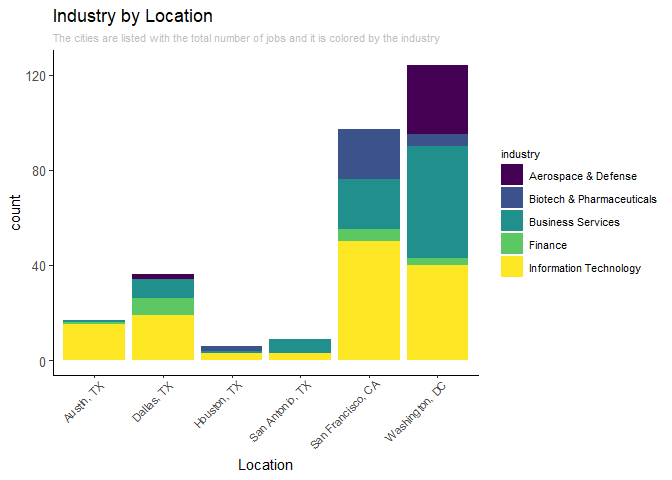
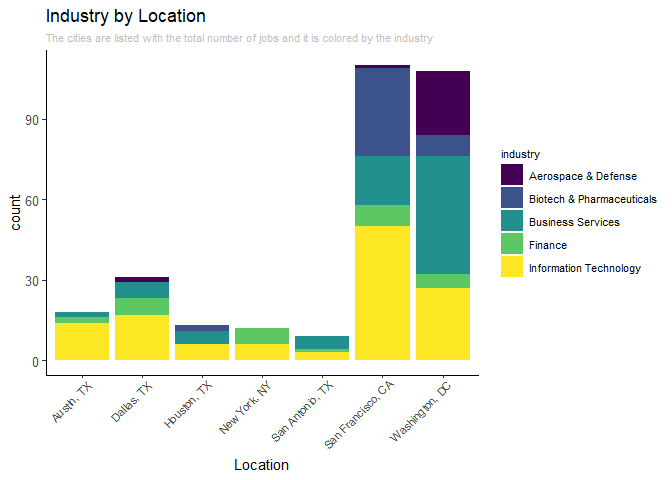
updated job categories for job cateogry analysis

diff --git a/EDA/industry_analysis.md b/EDA/industry_analysis.md
@@ -8,7 +8,7 @@ against the location data to see if which jobs are in each location.
 
 <details>
 
-<summary>Click to expand\!</summary> \# Load
+<summary>Click to expand</summary> \# Load
     Data
 
 ``` r
@@ -65,7 +65,7 @@ Also take out the NAs
 ``` r
 ds_filter <- ds_jobs %>%
   filter(!is.na(job_category)) %>%
-  filter(job_category == "Data Analyst" | job_category == "Data Engineer" | job_category == "Data Scientist" | job_category == "Machine Learning" | job_category == "Consultant")
+  filter(job_category == "Data Analyst" | job_category == "Data Engineer" | job_category == "Data Scientist" | job_category == "Machine Learning" | job_category == "Statistics" | job_category == "Other Analyst")
 ```
 
 </details>
@@ -99,14 +99,14 @@ are the job categories that dominate. Thus, if a data science student is
 looking for a job, then based on this data, the student should look for
 jobs in the bay area and DC.
 
-# industry vs location
+# Industry vs Location
 
 I also want to know which industries are offered in each state. I only
 want the top 5 industries so that my graph is easier to read.
 
 <details>
 
-<summary>Click to expand\!</summary>
+<summary>Click to expand</summary>
 
 ``` r
 ds_filter2 <- ds_filter %>%
